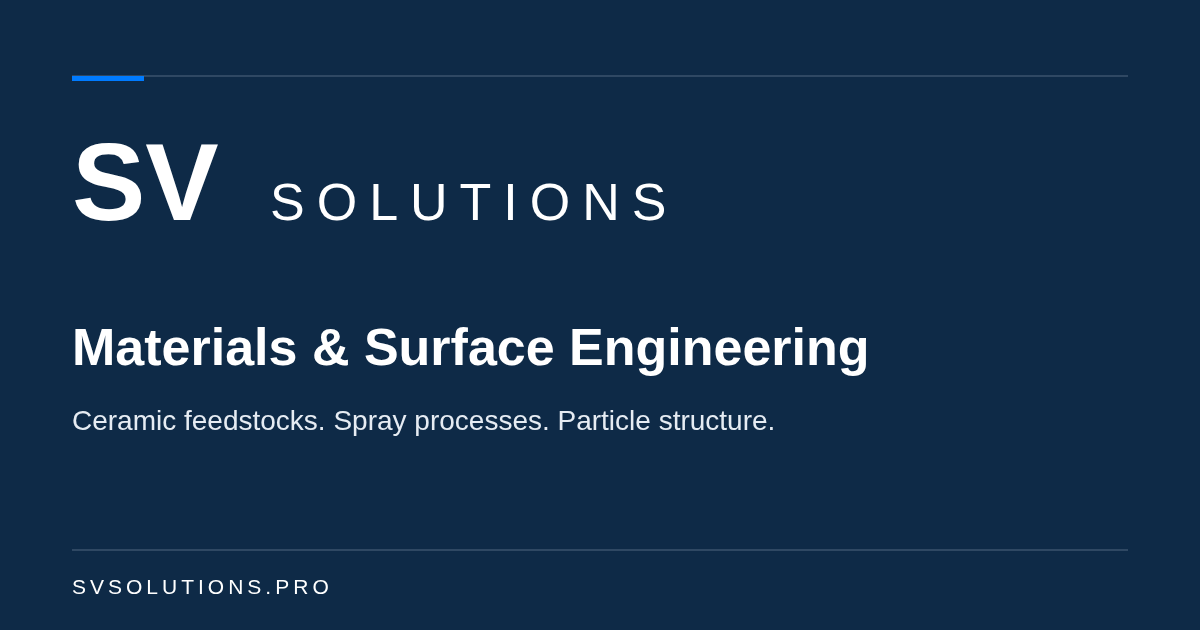
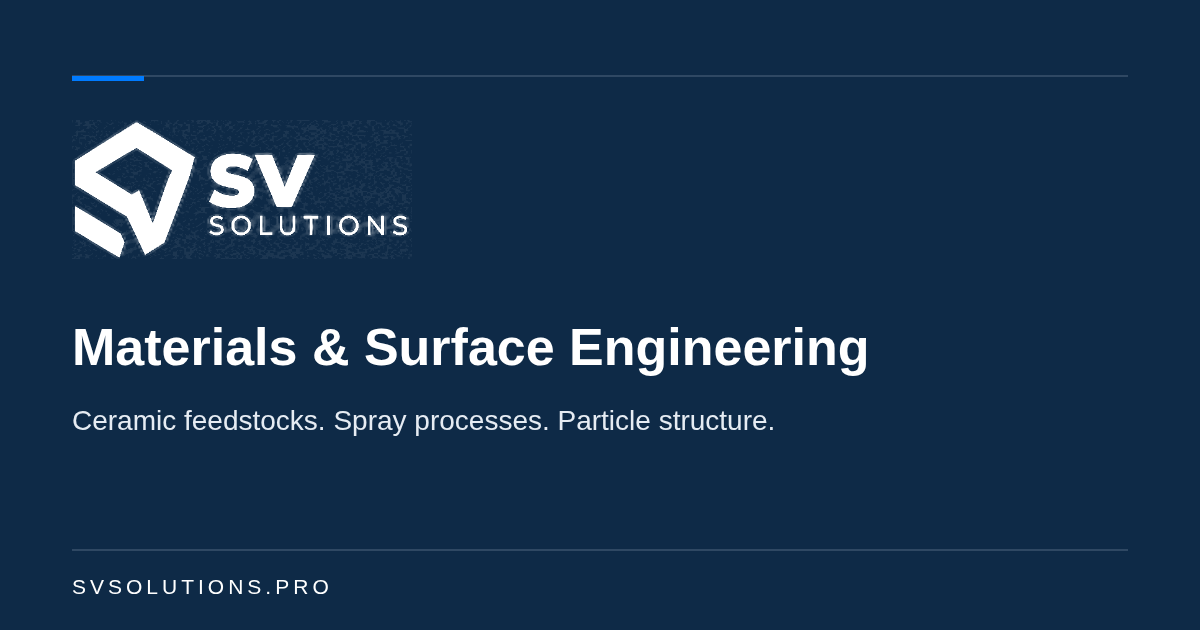
Integrate supplied SV Solutions brand kit

Changed region(s): [[0.0617, 0.181, 0.555, 0.4222]]

diff --git a/version6/src/styles/global.css b/version6/src/styles/global.css
@@ -67,15 +67,15 @@ main:focus { outline: none; }
 .text-link:hover { text-decoration: underline; }
 .hero-actions { display: flex; flex-wrap: wrap; gap: 12px; }
 
-/* A typographic wordmark is temporary until original logo exports are supplied. */
+/* Supplied raster lockups retain their natural proportions and clear space. */
 .site-header { position: sticky; top: 0; z-index: 30; background: var(--white); border-bottom: 1px solid var(--line); }
-.header-inner { display: flex; min-height: 88px; align-items: center; justify-content: space-between; gap: 30px; }
+.header-inner { display: flex; min-height: 104px; align-items: center; justify-content: space-between; gap: 30px; padding-block: 14px; }
 .brand { display: inline-flex; text-decoration: none; color: var(--navy); flex-shrink: 0; }
 .brand:hover { color: var(--navy); }
 .wordmark { display: inline-flex; align-items: center; gap: 9px; line-height: 1; }
 .wordmark b { font-size: 2.4rem; font-weight: 850; font-style: italic; letter-spacing: -.08em; padding-right: 4px; }
 .wordmark > span { font-size: .84rem; letter-spacing: .2em; font-weight: 450; }
-.brand-image { width: 210px; height: 56px; object-fit: contain; }
+.brand-image { width: 176px; height: auto; }
 .site-menu, .site-menu nav { display: flex; align-items: center; }
 .site-menu { gap: 30px; }
 .site-menu nav { gap: 30px; }
@@ -95,14 +95,19 @@ main:focus { outline: none; }
 .menu-button[aria-expanded="true"] .menu-lines span:first-child { transform: translateY(3.5px) rotate(45deg); }
 .menu-button[aria-expanded="true"] .menu-lines span:last-child { transform: translateY(-3.5px) rotate(-45deg); }
 
-/* Home: editorial white space paired with the navy brand application. */
+/* Home: dark technical hero paired with light editorial content. */
+.hero-surface { background: linear-gradient(115deg, var(--navy-deep), var(--navy)); color: var(--white); }
+.hero .eyebrow, .hero .hero-text, .hero .hero-note { color: var(--on-dark-muted); }
+.hero .button { border-color: var(--blue); }
+.hero .button-secondary { color: var(--white); border-color: var(--on-dark-muted); }
+.hero .button-secondary:hover { color: var(--navy); background: var(--white); border-color: var(--white); }
 .hero { display: grid; grid-template-columns: minmax(0, 1.35fr) minmax(0, 1fr); gap: clamp(40px, 6vw, 96px); padding-block: clamp(60px, 7vw, 108px); align-items: stretch; }
 .hero-copy { padding-top: 8px; }
 .hero .eyebrow { margin-bottom: 26px; }
 .hero h1 { max-width: 700px; margin-bottom: 26px; }
 .hero-text { max-width: 560px; color: var(--steel); font-size: 1.03rem; line-height: 1.8; margin-bottom: 30px; }
 .hero-note { margin: 30px 0 0; color: var(--steel); font-family: var(--mono); font-size: .66rem; letter-spacing: .04em; }
-.research-panel { position: relative; display: flex; flex-direction: column; padding: 30px clamp(24px, 3vw, 42px); background: linear-gradient(145deg, var(--navy), var(--navy-deep)); color: var(--white); min-height: 485px; }
+.research-panel { position: relative; display: flex; flex-direction: column; padding: 30px clamp(24px, 3vw, 42px); background: linear-gradient(145deg, var(--navy), var(--navy-deep)); border: 1px solid var(--on-dark-line); color: var(--white); min-height: 485px; }
 .research-panel::before { content: ""; position: absolute; height: 4px; top: 0; left: 0; width: 72px; background: var(--blue); }
 .panel-top { display: flex; justify-content: space-between; align-items: center; padding-bottom: 20px; border-bottom: 1px solid var(--on-dark-line); color: var(--on-dark-muted); font-family: var(--mono); font-size: .65rem; text-transform: uppercase; letter-spacing: .12em; }
 .panel-cross { color: var(--blue); font-size: 1.2rem; line-height: 1; }
@@ -247,14 +252,16 @@ figcaption { color: var(--steel); font-size: .76rem; line-height: 1.6; padding-t
 .article-bottom { margin-top: 50px; border-top: 1px solid var(--line); padding-top: 25px; }
 
 /* Footer. */
-.site-footer { background: var(--surface); border-top: 1px solid var(--line); }
+.site-footer { background: var(--navy); color: var(--white); border-top: 1px solid var(--on-dark-line); }
+.site-footer .brand { color: var(--white); }
+.site-footer a:hover { color: var(--white); text-decoration: underline; }
 .footer-top { display: flex; justify-content: space-between; gap: 40px; padding-block: 48px; align-items: flex-start; }
-.footer-top p { font-size: .7rem; color: var(--steel); margin: 12px 0 0; }
-.footer-top nav { display: flex; gap: 25px; padding-top: 10px; font-size: .75rem; color: var(--steel); }
+.footer-top p { font-size: .7rem; color: var(--on-dark-muted); margin: 12px 0 0; }
+.footer-top nav { display: flex; gap: 25px; padding-top: 10px; font-size: .75rem; color: var(--on-dark-muted); }
 .footer-top nav a { text-decoration: none; }
 .footer-top nav a:hover { text-decoration: underline; }
 .footer-email { display: inline-flex; gap: 22px; align-items: center; padding-top: 7px; font-size: .8rem; text-decoration: none; }
-.footer-bottom { display: flex; justify-content: space-between; gap: 20px; border-top: 1px solid var(--line); padding-block: 24px; color: var(--steel); font-size: .64rem; }
+.footer-bottom { display: flex; justify-content: space-between; gap: 20px; border-top: 1px solid var(--on-dark-line); padding-block: 24px; color: var(--on-dark-muted); font-size: .64rem; }
 .footer-bottom a { display: inline-flex; align-items: center; gap: 10px; text-decoration: none; }
 .footer-bottom .arrow { width: 13px; height: 13px; }
 
@@ -277,7 +284,8 @@ figcaption { color: var(--steel); font-size: .76rem; line-height: 1.6; padding-t
   .insight-card { padding: 22px; }
 }
 @media (max-width: 860px) {
-  .header-inner { min-height: 76px; flex-wrap: wrap; gap: 0; }
+  .header-inner { min-height: 84px; flex-wrap: wrap; gap: 0; padding-block: 12px; }
+  .brand-image { width: 144px; }
   .wordmark b { font-size: 2.15rem; }
   .wordmark > span { font-size: .75rem; }
   .site-menu { flex-basis: 100%; justify-content: space-between; padding-bottom: 16px; gap: 15px; }

diff --git a/version6/src/data/site.ts b/version6/src/data/site.ts
@@ -8,8 +8,19 @@ export const site = {
     linkedin: "https://www.linkedin.com/in/stepankalashnikov/"
   },
   portrait: "",
-  // Add the original exported assets here; never reconstruct the symbol.
-  logo: { light: "", dark: "" },
-  favicon: "/brand/favicon.svg",
+  // Supplied raster extractions; light/dark describe the surrounding surface.
+  logo: {
+    light: "/brand/logos/logo-primary-raster-transparent.png",
+    dark: "/brand/logos/logo-white-raster-transparent.png",
+    width: 548,
+    height: 224
+  },
+  favicon: "/brand/icons/favicon-48.png",
+  icons: {
+    small: "/brand/icons/favicon-32.png",
+    apple: "/brand/icons/favicon-180.png",
+    medium: "/brand/icons/favicon-256.png",
+    large: "/brand/icons/favicon-512.png"
+  },
   socialImage: "/brand/social-card.png"
 } as const;

diff --git a/version6/BRAND_GUIDE.md b/version6/BRAND_GUIDE.md
@@ -1,6 +1,6 @@
 # SV Solutions brand implementation
 
-The primary visual reference is the **branding.png brand sheet supplied with this task**: blue/navy geometric logo previews, contrasting light/dark applications, restrained orange accents, tracked SOLUTIONS lettering and sans-serif typography. The website applies this palette and hierarchy in a typographic, editorial layout; it does not use the sheet's mock buildings, factory image or business-card artwork as evidence of the business.
+The primary visual reference is the supplied **SV Solutions Brand Kit**, specifically `references/full-brand-board.png` and `tokens/brand-tokens.json`: blue/navy geometric logo previews, contrasting light/dark applications, restrained orange accents, tracked SOLUTIONS lettering and sans-serif typography. The website applies this palette and hierarchy in a dark technical hero with light editorial sections; it does not use the sheet's mock buildings, factory image or business-card artwork as evidence of the business.
 
 ## Palette
 
@@ -20,26 +20,29 @@ The darker action blue preserves readable contrast where primary blue is too lig
 
 ## Typography and layout
 
-Inter Variable is bundled through `@fontsource-variable/inter`, served from the site itself. Chinese falls back to PingFang SC, Microsoft YaHei and the system sans-serif. No font CDN or external font request is used. Body copy is regular; headings use semibold weights. The temporary wordmark uses heavy italic SV with tracked regular SOLUTIONS, following the hierarchy in the reference without reproducing its symbol.
+Inter Variable is bundled through `@fontsource-variable/inter`, served from the site itself. Chinese falls back to PingFang SC, Microsoft YaHei and the system sans-serif. No font CDN or external font request is used. Body copy is regular; headings use semibold weights. The supplied raster lockup carries the bold SV and tracked SOLUTIONS lettering. A typographic fallback remains available only when the configured image path is empty.
 
-Use the shared maximum-width container, generous section spacing, small uppercase technical labels and thin grid dividers. Most backgrounds are white or near-white. Reserve navy for focused panels and the contact CTA. Use gradients sparingly; the research panel uses only a subtle navy shift. Avoid decorative shadows, blur, glass effects, elaborate animations and stock imagery.
+Use the shared maximum-width container, generous section spacing, small uppercase technical labels and thin grid dividers. Content sections remain white or near-white. The hero, contact CTA and footer use navy; the header remains white. Use gradients sparingly: the hero and research panel use subtle navy shifts. Avoid decorative shadows, blur, glass effects, elaborate animations and stock imagery.
 
-## Original logo assets
+## Supplied logo and icon assets
 
-No standalone original logo export was available in the repository or attachments. The supplied brand sheet is a visual reference, not a production logo asset. The previous personal symbol was removed. **Do not trace, redraw or crop the geometric SV symbol from the screenshot.**
+`public/brand/logos/` and `public/brand/icons/` contain selected PNGs copied unchanged from the supplied kit. The kit was extracted from a flattened raster board; these are **not original vector masters**. The white lockup is a recolored derivative. Inspection on white and navy confirmed that low-opacity extraction texture remains, particularly around the white version. At normal header/footer size it is faint, but these PNGs are temporary web assets rather than print-ready artwork. Replace them with genuine designer-supplied vectors when available; do not trace or redraw the symbol.
 
-When original exports are available, place them at:
-
-| Asset | Location | Configuration |
+| Asset | Location under `public/brand/` | Configuration / use |
 | --- | --- | --- |
-| Full-color logo for white backgrounds | `public/brand/sv-solutions-light.svg` | `site.logo.light` |
-| White/blue logo for navy backgrounds | `public/brand/sv-solutions-dark.svg` | `site.logo.dark` |
-| Approved favicon | `public/brand/favicon.svg` | `site.favicon` |
-| Approved social image, 1200 × 630 | `public/brand/social-card.png` | `site.socialImage` |
+| Primary transparent lockup | `logos/logo-primary-raster-transparent.png` | `site.logo.light`: white header |
+| White transparent lockup | `logos/logo-white-raster-transparent.png` | `site.logo.dark`: navy footer |
+| Primary / white monograms | `logos/monogram-primary-raster-transparent.png`, `logos/monogram-white-raster-transparent.png` | Available for future tight layouts; full accessible lockups are used now |
+| Favicons | `icons/favicon-32.png`, `icons/favicon-48.png` | `site.icons.small`, `site.favicon` |
+| Apple touch icon | `icons/favicon-180.png` | `site.icons.apple` |
+| Larger icons | `icons/favicon-256.png`, `icons/favicon-512.png` | `site.icons.medium`, `site.icons.large` |
+| Social image, 1200 × 630 | `social-card.png` | `site.socialImage` |
 
-Configure their browser paths in `src/data/site.ts`, for example `logo.light: "/brand/sv-solutions-light.svg"` within the existing object. PNG exports are also supported. Keep a transparent background, preserve the original proportions and leave clear space around the logo. Light surfaces use `logo.light`; any future dark-background `Brand` component should pass `dark` to use `logo.dark`. Empty values intentionally show the clean typographic wordmark.
+`light` and `dark` describe the **background**, not the artwork color. `Brand.astro` uses the primary lockup by default and the white lockup when passed `dark`; the footer explicitly passes it. Both supplied lockups measure 548 × 224. Those natural dimensions are set in `site.logo.width` / `.height`, while CSS scales to 176px wide on desktop and 144px on smaller screens with `height: auto`. Do not force them into a 220 × 60 rectangle. The header supplies vertical clear space, and the footer supplies generous padding. Keep at least 12px of clear space around these display sizes.
 
-The current favicon is a temporary text-only “SV” on navy. The current social image is also typographic, not a substitute geometric logo. Its editable source is `public/brand/social-card.svg`; after editing, export it as the 1200 × 630 PNG used by social metadata. Keep both files in sync. Replace these with approved brand assets when supplied.
+To replace a logo, copy the approved file into `public/brand/logos/`, update its browser path in `src/data/site.ts`, and update the natural width/height if its aspect ratio differs. If future variants have different proportions, give each its own dimensions in the component rather than stretching either one. Always inspect the replacement on both surface colors and at mobile width. Preserve the `alt` text and accessible Home link.
+
+No mockup or reference-board image is shipped as page photography. The current social-card source is `public/brand/social-card.svg`; it embeds the supplied white raster lockup and is not a vector master of the mark. Re-export at 1200 × 630 after changing it, keeping `social-card.png` in sync.
 
 ## Technical imagery
 

diff --git a/version6/CONTENT_GUIDE.md b/version6/CONTENT_GUIDE.md
@@ -2,6 +2,14 @@
 
 Run all commands from `version6/`. Edit UTF-8 source files, not the generated `dist/` folder. English and Chinese text are maintained independently; the site does not automatically translate them.
 
+## Five-minute editing map
+
+1. **Homepage:** edit the matching `en` or `zh` section in `src/data/home.ts`. Hero styling is in `src/styles/global.css` under `.hero-surface`; keep technical claims factual.
+2. **About:** edit `src/data/profile.ts`. **Email/social links:** edit `src/data/site.ts` once for all pages.
+3. **Logos/icons:** copy approved files to `public/brand/logos/` or `icons/`, then update paths in `src/data/site.ts`. `logo.light` is used on the white header; `logo.dark` is used on the navy footer. Preserve natural image proportions and meaningful alt text. See [BRAND_GUIDE.md](BRAND_GUIDE.md) for exact mappings and the raster-quality caveat.
+4. **Colors:** edit the existing CSS custom properties at the top of `src/styles/global.css`; do not import a second competing token file. Keep orange sparse and test text contrast.
+5. **New article:** run `npm run new:insight -- --lang en --slug your-topic` (or `--lang zh`), edit the generated Markdown, then review before changing `draft: true` to `false`. Run `npm run check`, `npm test` and `npm run build` before deployment.
+
 ## 1. Homepage text
 
 Edit `src/data/home.ts`. The `en` and `zh` objects contain the hero, four capability cards, founder preview and contact CTA. Keep the existing quotes, commas and braces. Use `\n` inside a quoted title to request a line break. UI labels and page metadata are in `src/i18n/ui.ts`.

diff --git a/version6/README.md b/version6/README.md
@@ -48,7 +48,7 @@ Astro 5, strict TypeScript, Markdown/MDX content collections, small components, 
 ## Before publishing
 
 - Review both languages, especially dates, technical claims, links and contact details.
-- Supply final original logo exports when available; the temporary wordmark is intentional.
+- Review the supplied PNG lockups on light and dark surfaces; replace them with original vector masters when available.
 - Publish only reviewed posts (`draft: false`). An empty Insights section is supported.
 - Check article translation links in both directions and image paths beginning `/images/`.
 - Run `npm run check`, `npm test` and `npm run build`.

diff --git a/version6/DEPLOYMENT.md b/version6/DEPLOYMENT.md
@@ -53,7 +53,7 @@ Deploy the new `dist/`. Drafts never generate article pages, feed items or sitem
 ## Release review
 
 - Verify email ownership, factual About content, publication dates and both languages.
-- Replace temporary typography assets with original logo exports when available.
+- Inspect the supplied raster logos and icons; replace them with original vector masters when available.
 - Verify every published image and its permissions; check translation links.
 - Confirm canonical/hreflang/OG URLs use the custom domain, not a preview host.
 - Check mobile menu, keyboard focus, 404 status and root redirect on the deployed provider.
